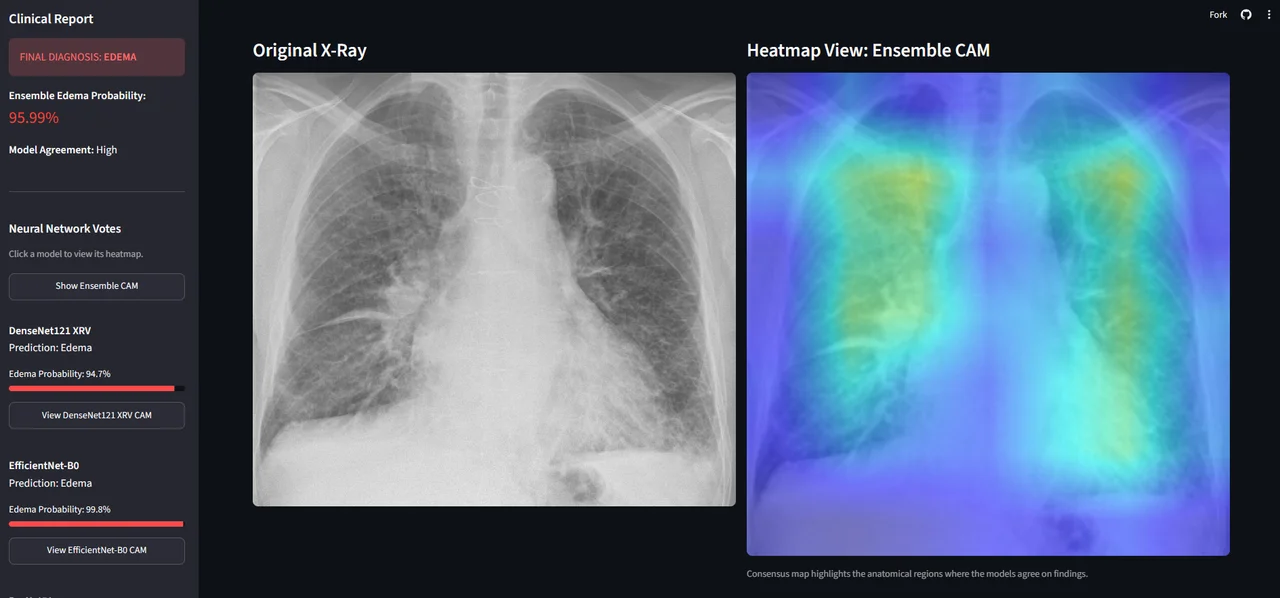
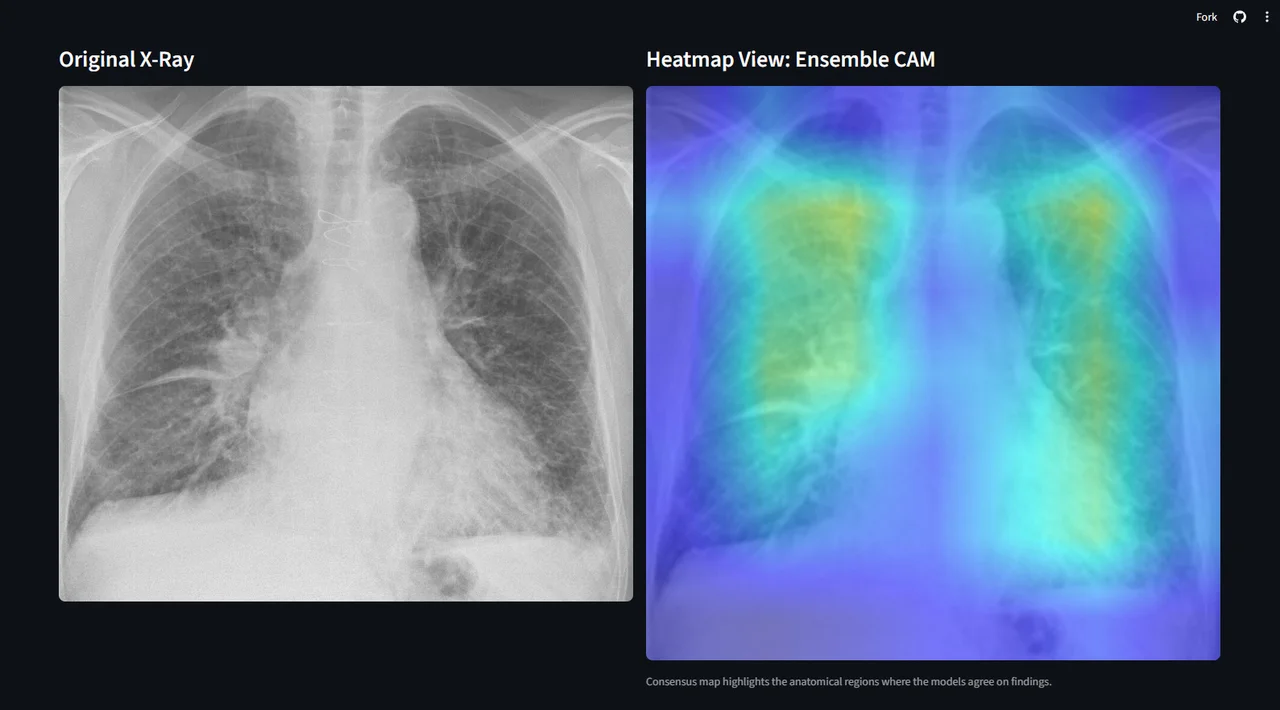
Trim the app sidebar from the edema report screenshot
The pipeline cuts the left 300px (the app's sidebar) from the report
screen, so its Final diagnosis box never shows in any crop, including the
21:9 phone hero and the share image.

diff --git a/src/data/projects.js b/src/data/projects.js
@@ -14,7 +14,7 @@ const edemaCams = [
   { id: 'resnet50', label: 'ResNet50', probability: '100.0%' },
   { id: 'convnext-tiny', label: 'ConvNeXt-Tiny', probability: '89.5%' },
 ].map((m) => ({ ...m, image: natural(`edema-cam-${m.id}`, EDEMA_RATIO) }))
-const edemaReport = wholeScreenshot('pulmonary-edema', 1, 882 / 1889)
+const edemaReport = wholeScreenshot('pulmonary-edema', 1, 882 / 1589) // sidebar trimmed by the pipeline
 const edemaVotes = wholeScreenshot('pulmonary-edema', 2, 883 / 1897)
 
 // The three stages every project is shown through. Sections read this list,
@@ -148,7 +148,7 @@ export const projects = [
           kind: 'image',
           image: edemaReport,
           alt: 'The Streamlit app with the example chest X-ray loaded beside its Ensemble Grad-CAM heatmap',
-          position: '72% center',
+          position: 'center',
         },
       },
     },
